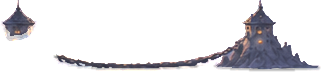
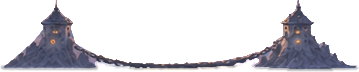
Town cuts checked in the other four towns: three forts mended
The owner asked for the other four towns to be compared the way Thornwake and
Mireclaw were: every layer next to its painting, 208 in all. Sunvault and
Brasshollow had no bad cut.

Mended with tools/town_plot_matte_patches.py, shapes beside each packet:
Veilmourn's sea fort had lost its left sea stack at stage 1 (the tower's roof
was left hanging in the air) and at stage 2; Embercourt's first fort had lost
the timber weir between its watchtowers. Three layers, hit masks and icons
repackaged; the other 101 layers of the two towns are unchanged.

Looked at closely and left: Embercourt's Shipyard without the boathouse the
painter added outside its plot (it would cover much of the tier-4 dwellings'
plot), and both colossus stages, whose cut follows the scaffold and the
pedestal's shaded side.

Checked in the game with each of the three forts hovered.

diff --git a/docs/common-town-building-template.md b/docs/common-town-building-template.md
@@ -290,3 +290,5 @@ Level ground at the plots followed the same day (slice `town-plot-shelves-202611
 Four Thornwake cuts were mended on 2026-11-11 (slice `town-thornwake-cuts-20261111`), after the owner pointed at the hall's second stage: its hover outline showed the dome and the arcade as two pieces with the moss roof missing between them. BiRefNet takes a moss roof for mossy ground, also on a second look. The hall's second and third stage lacked that roof, the first white-hart lodge was only its arch and stag with the lodge itself gone, and the root bastion's den carried a piece of the ledge below it. `tools/town_plot_matte_patches.py` mends such mattes from hand-drawn shapes in master pixels, kept as `<packet>_matte_patches.json` beside the packet: outlines that join the matte, lines for chains, outlines that leave it, and a seal for the seams; it runs once after `tools/town_plot_mattes.py`. Found by putting every Thornwake layer next to its painting.
 
 Mireclaw followed the same day (slice `town-mireclaw-cuts-20261111`, owner: yes, fix Mireclaw), all 52 layers against their paintings: four were wrong. BiRefNet sees no object in a palisade far off in the haze, so the fort kept its gate and one hut at stage 1, its gatehouse alone at stage 2 and its two gate towers alone at stage 3; of the upgraded stag ring it kept the stag and three skull posts. The palisades, huts and lantern poles are outlined by hand, and the stage-3 wall, which the painting runs on past the plot, fades out at its ends. The ring's posts, lanterns and chains are each drawn by hand, because the painted island is larger than the backdrop's and its ground cannot come along; the packet marks that building `matte_open`, so `tools/package_town_plot_layers.py` keeps the ring open and every part of it instead of filling the ground inside. More looks, small windows round groups of posts, colour and paint change were all tried first and none separates posts or stakes from the ground.
+
+The other four towns were then compared the same way (slice `town-cuts-four-towns-20261111`, owner: yes, check them), 208 layers against their paintings. Sunvault and Brasshollow had no bad cut. Three were mended with the same tool: Veilmourn's sea fort had lost the left sea stack at stage 1 (the tower's roof was left hanging) and at stage 2, and Embercourt's first fort had lost the timber weir between its watchtowers. Looked at closely and left as they are: Embercourt's Shipyard is cut without the boathouse the painter added behind the crane, which lies outside the plot and would cover a quarter to three fifths of the tier-4 dwellings' plot; and both colossus stages, whose cut follows the scaffold and the pedestal's shaded side, not the hillside. After packaging a town, put every layer next to its painting: a part that is lost whole leaves no bite in the outline, so a scan of the hit masks does not find it.

diff --git a/PLAN.md b/PLAN.md
@@ -54,6 +54,7 @@ None open.
 
 ## Open work
 
+- `town-cuts-four-towns-20261111` (in progress): Owner: yes, check them. Compare every layer of Sunvault, Veilmourn, Embercourt and Brasshollow with its painting and mend the bad cuts with tools/town_plot_matte_patches.py; matte patch files beside the packets, layers repackaged. See `docs/common-town-building-template.md`.
 - `native-rules-phase7-14-campaign-20261023` (pending): port the campaign runtime to C++, together with the campaign rework (D-f). See `docs/native-rules-engine-transition.md`.
 - `content-authored-scenarios-obsolete-20261005` (paused): hold on all authored maps, scenarios and campaigns until the owner selects their rework. See `docs/authored-scenarios-obsolete.md`.
 - `playable-alpha-scenario-set-10184` (paused): Phase 5 umbrella: several scenarios and skirmish setups played end to end, with save/load, outcomes, AI pressure and a viable economy. Waits for the authored-content rework.
@@ -81,7 +82,7 @@ None open.
 - 2026-11-10 `ui-built-maps-pictures-20261110` (715d958f0): Skirmish hero portrait keeps one size; the built maps window shows map pictures.
 - 2026-11-10 `town-art-quality-pass-20261110` (f59c98e13): Town quality pass: soft haze, crisper ground in three towns, ten lodges lighter.
 - 2026-11-10 `ui-skirmish-setup-rework-20261110` (36c648462): Skirmish setup and save menu are one tall left column in the dark-and-gold look: faction crests, hero portraits, a hero card, map settings as pills; built maps behind a button.
-- 2026-11-10 `town-art-thornwake-20261110` (00ffec2ea): Thornwake repainted as a root ravine: 52 stages on 24 plots round a mother tree, Shipyard on a river bend; river, falls and haze effects; packet faction_thornwake/root_ravine.json.
+- 2026-11-10 `town-art-thornwake-20261110` (00ffec2ea): Thornwake repainted as a root ravine: 52 stages on 24 plots, Shipyard on a river bend; effects.
 - 2026-11-10 `tooling-source-archive-snapshot-20261110` (2e3c36a9e): Snapshot 2026-11-10-2e3c36a9 on N: holds the 1,088 source paintings made since 14 October, verified; provenance and the storage map name it.
 - 2026-11-10 `ui-tooltip-card-art-20261110` (80c713f87): Every tooltip and its F1 full-text window take the map information card's dark-and-gold frames, with a gold heading and a Close button.
 - 2026-11-10 `town-art-sunvault-20261110` (711b60cb0): Sunvault town repainted as a sun cirque: 52 stages on 24 plots round a glacial lake, Shipyard on its shore; lake, fall and vapour effects; packet faction_sunvault/sun_cirque.json.
